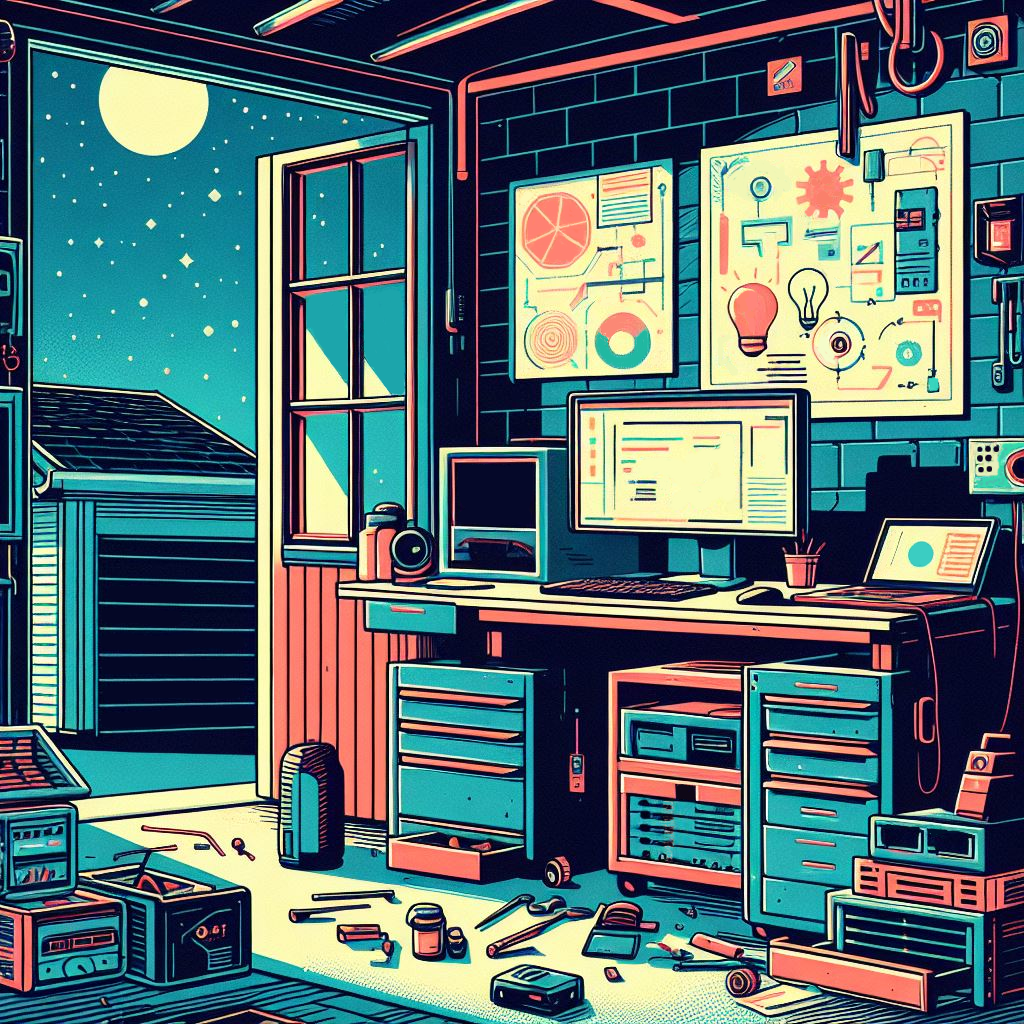
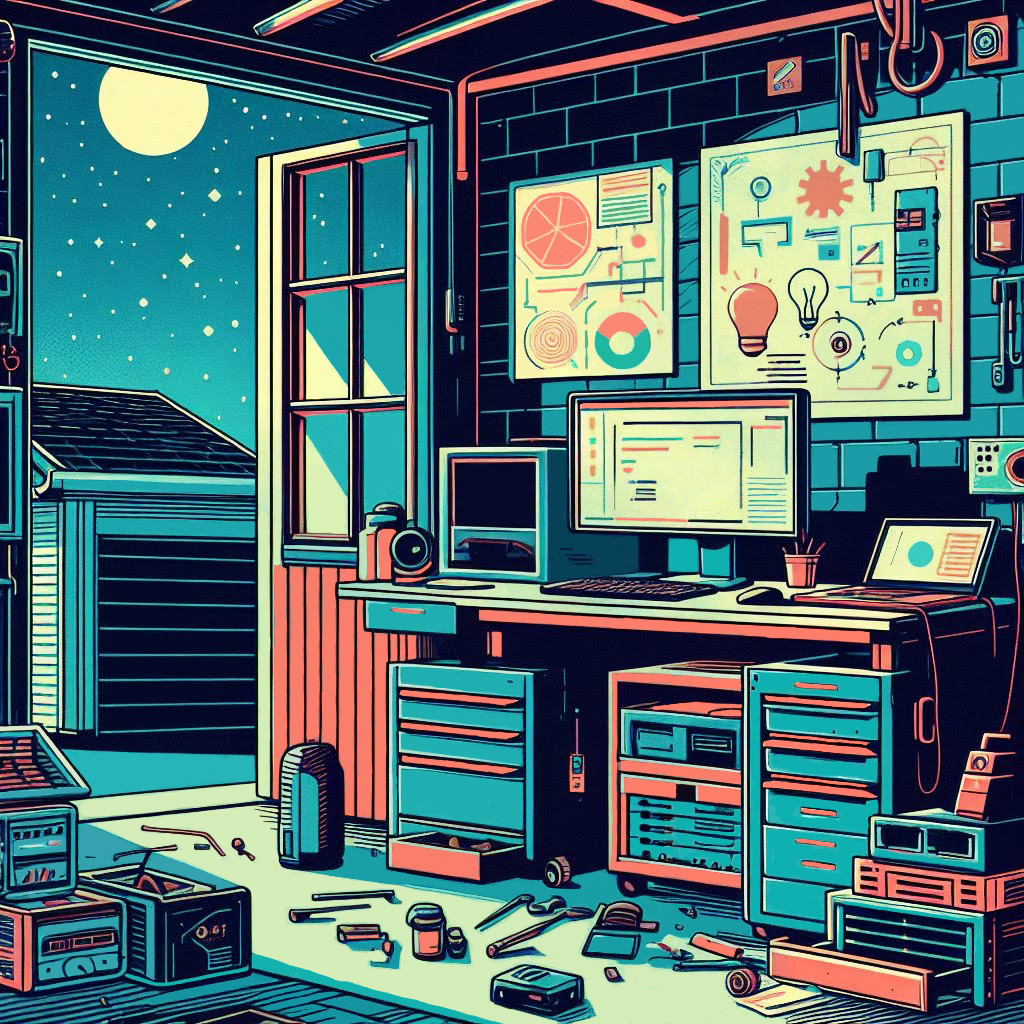
polishes hero images

diff --git a/blog/index.md b/blog/index.md
@@ -4,7 +4,7 @@ layout: default
 ---
 
 <div class="hero">
-    <div class="hero-left hero-top hero-content border-lg-3 border-end-lg border-lg-black min-vh-50" style="background: url('/assets/img/411dc997-6da9-4e1f-9cad-e7804b5495da.jpeg') center center no-repeat; background-size: cover;">
+    <div class="hero-left hero-top hero-content border-lg-3 border-end-lg border-lg-black min-vh-50" style="background: url('/assets/img/8366c17a-d202-408d-a7f3-983daadf399c.png') center center no-repeat; background-size: cover;">
     </div>
     <div class="hero-right hero-bottom hero-content d-flex align-items-center min-vh-50">
         <div class="mt-5 mb-3">
